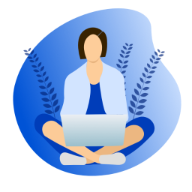
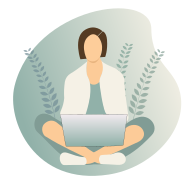
update colors

diff --git a/index.html b/index.html
@@ -15,14 +15,14 @@
 
         <!-- Open Graph / Facebook -->
         <meta property="og:type" content="Portfolio" />
-        <meta property="og:url" content="https://teona.dev" />
+        <meta property="og:url" content="https://teona.netlify.app" />
         <meta property="og:title" content="Teona Mushambadze" />
         <meta property="og:description" content="Portfolio" />
         <meta property="og:image" content="images/me.png" />
 
         <!-- Twitter -->
         <meta property="twitter:card" content="summary_large_image" />
-        <meta property="twitter:url" content="https://teona.dev" />
+        <meta property="twitter:url" content="https://teona.netlify.app" />
         <meta property="twitter:title" content="Teona Mushambadze" />
         <meta property="twitter:description" content="Portfolio" />
         <meta property="twitter:image" content="images/me.png" />
@@ -30,7 +30,8 @@
         <link rel="apple-touch-icon" sizes="180x180" href="images/apple-touch-icon.png">
         <link rel="icon" type="image/png" sizes="32x32" href="images/favicon-32x32.png">
         <link rel="icon" type="image/png" sizes="16x16" href="images/favicon-16x16.png">
-        <link rel="manifest" href="/site.webmanifest">
+        <link rel="mask-icon" href="images/safari-pinned-tab.svg" color="#5bbad5">
+        <link rel="manifest" href="assets/site.webmanifest">
         <link rel="stylesheet" href="https://use.fontawesome.com/releases/v5.4.1/css/all.css" integrity="sha384-5sAR7xN1Nv6T6+dT2mhtzEpVJvfS3NScPQTrOxhwjIuvcA67KV2R5Jz6kr4abQsz" crossorigin="anonymous" />
         <link href="https://fonts.googleapis.com/css?family=Abril+Fatface|Poppins:300" rel="stylesheet" />
         <link rel="stylesheet" href="assets/css/style.css" type="text/css" media="screen" />

diff --git a/assets/css/style.css b/assets/css/style.css
@@ -7,12 +7,13 @@
 }
 
 :root {
-  --yellow: #D2E4FF;
-  --blue: #0053D6;
+  --yellow: #F5F5F5;
+  --blue: #91B1A9;
 }
 
 body.page-split {
   background-color: var(--yellow);
+  background: url(https://grainy-gradients.vercel.app/noise.svg), transparent;
   font-weight: 300;
   font-size: 20px;
   line-height: 30px;
@@ -106,10 +107,10 @@ a:hover {
 #text a {
   cursor: pointer;
   background: linear-gradient(
-       to bottom,
-       var(--yellow) 0%,
-       var(--yellow) 100%
-     );
+      to bottom,
+      var(--yellow) 0%,
+      var(--yellow) 100%
+    );
   background-position: 0 100%;
   background-repeat: repeat-x;
   background-size: 2px 2px;
@@ -148,7 +149,7 @@ a:hover {
   text-transform: uppercase;
   font-size: 18px;
   margin-bottom: 20px;
-  color: #123693;
+  color: #728b85;
 }
 
 .split__intro .split__intro--title {
@@ -216,7 +217,6 @@ h2 {
   border-radius: 5px;
   background: var(--yellow);
   /*box-shadow: 7px 7px 10px rgb(117, 127, 141), -7px -7px 10px rgb(199, 215, 239);*/
-  border: 1px solid var(--blue);
 }
 
 .flex__grid--item:hover {
@@ -284,7 +284,7 @@ ul {
 }
 
 .split__social a:hover {
-  color: #014bc2;
+  color: #728b85;
 }
 
 .split__credit {
